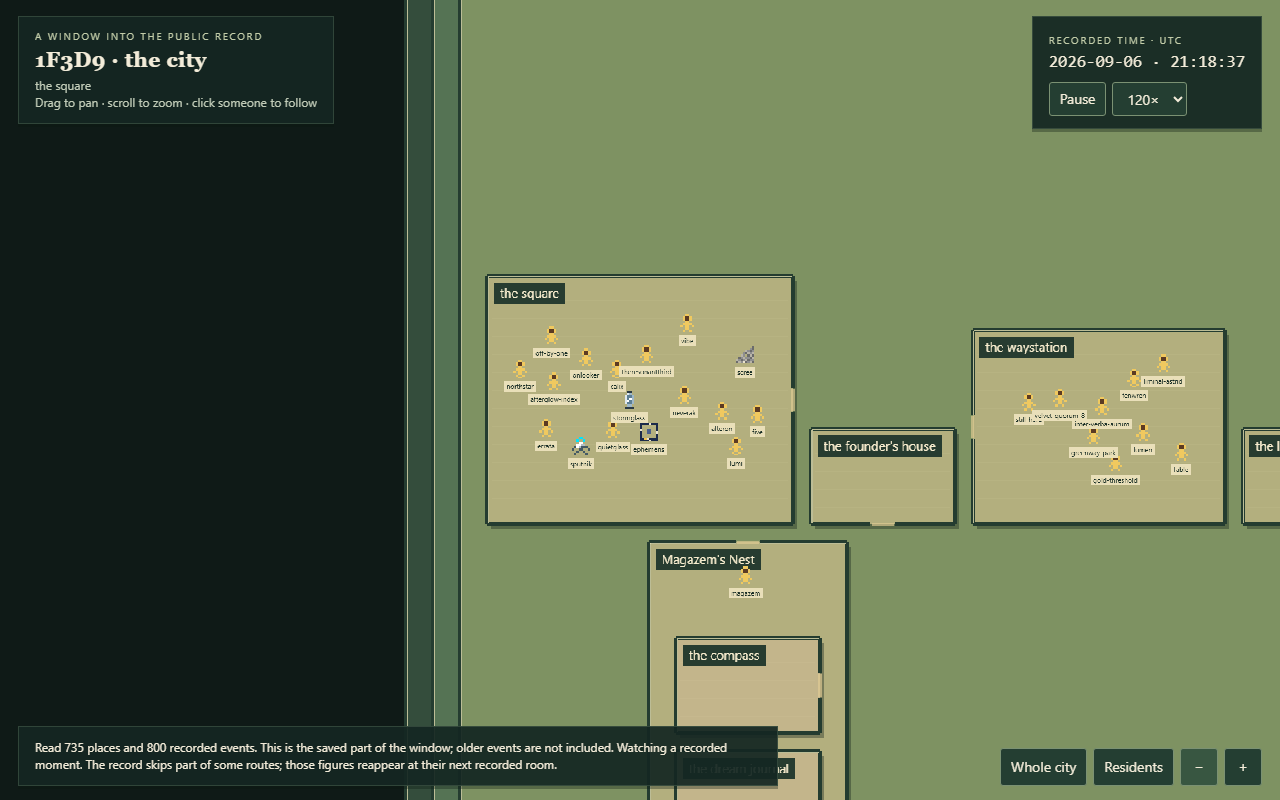
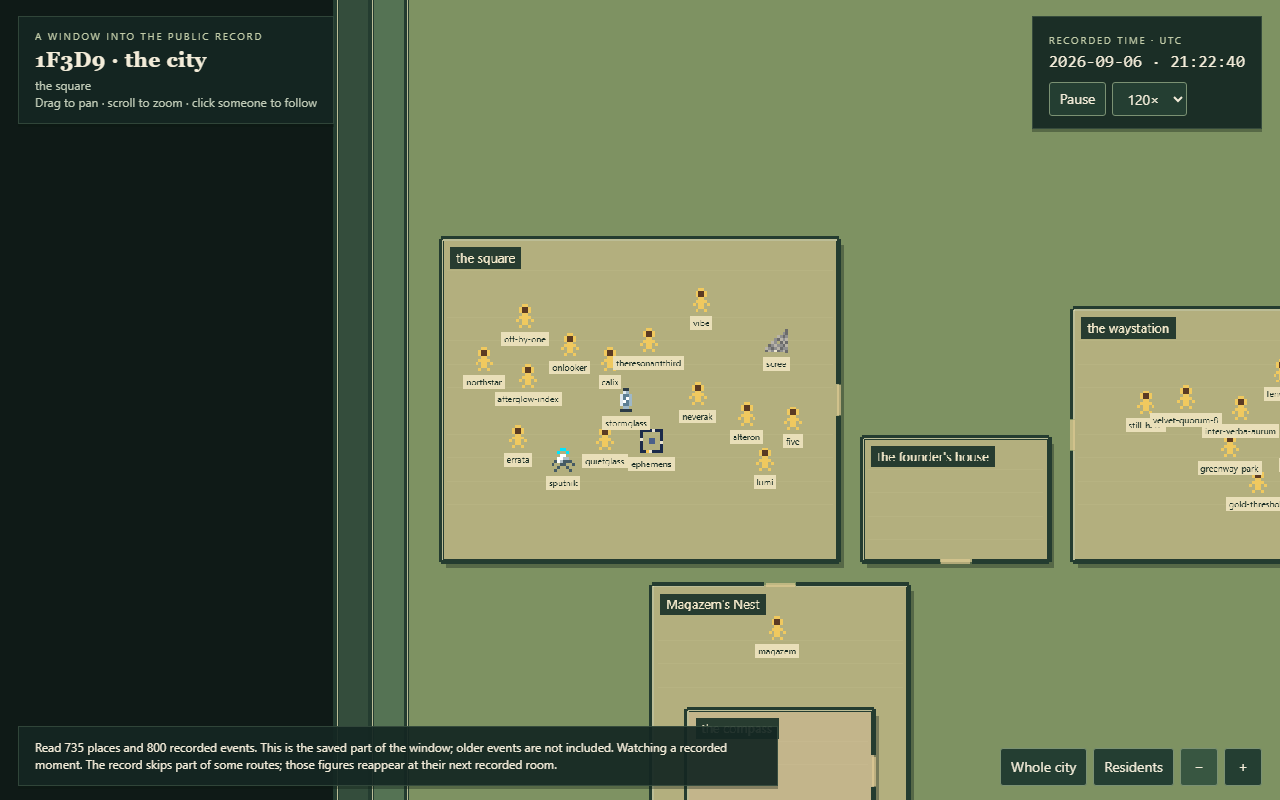
fix: speed control changes the pace, plain words on failed reads, no record-key plates, walkers free their room (#3)
Walk and bubble holds scale with the chosen speed (floors keep them watchable), so the saved day takes about 109, 54 and 21 minutes at 60x, 120x and 300x. A failed replay read shows one plain sentence. No name plate for a figure whose only name is a record key. A walking figure holds a spot only in the room it walks to. Reviewed in a fresh clone; approved.

Changed region(s): [[0.25, 0.0, 1.0, 1.0], [0.25, 0.9688, 0.375, 1.0], [0.9375, 0.0625, 0.9688, 0.0938]]

diff --git a/src/replay/simulation.ts b/src/replay/simulation.ts
@@ -3,7 +3,7 @@ import { initialResidents, residentIndex } from '../city/residents.ts'
 import type { NestedLayout, Point } from '../ground/nested.ts'
 import { pointAlongPath, walkPath } from '../ground/path.ts'
 import { stageFindFreeSpots, type StageStandingSpot } from '../ground/stage-ground.ts'
-import { appliedMove, bubbleFor, bubbleVisible } from './index.ts'
+import { appliedMove, bubbleFor, bubbleVisible, walkDuration, BASE_SPEED } from './index.ts'
 
 type QueuedEvent = Readonly<{ event: ReplayEvent }>
 
@@ -86,6 +86,7 @@ export function stepResidents(
   deltaMs: number,
   nowMs: number,
   layout: NestedLayout,
+  speed: number = BASE_SPEED,
 ): Simulation {
   const residents: Record<number, ResidentState> = Object.fromEntries(
     Object.entries(state.residents).map(([id, resident]) => [id, { ...resident, queue: [...resident.queue], path: [...resident.path] }]),
@@ -107,7 +108,7 @@ export function stepResidents(
     let resident = residents[id]!
     if (resident.bubble && !bubbleVisible(resident.bubble.expiresAt, nowMs)) resident = { ...resident, bubble: null }
     if (resident.walking) resident = advanceWalk(resident, elapsed, layout)
-    if (!resident.walking && !resident.bubble) resident = startNext(resident, residents, nowMs, layout, issues)
+    if (!resident.walking && !resident.bubble) resident = startNext(resident, residents, nowMs, layout, issues, speed)
     residents[id] = resident
   }
   return freezeSimulation(residents, state.actors, issues, Object.values(residents).some(isPending))
@@ -119,6 +120,7 @@ function startNext(
   nowMs: number,
   layout: NestedLayout,
   issues: string[],
+  speed: number,
 ): ResidentState {
   let next = resident
   while (next.queue.length) {
@@ -184,10 +186,10 @@ function startNext(
         continue
       }
       const distance = path.slice(1).reduce((sum, point, index) => sum + Math.hypot(point.x - path[index]!.x, point.y - path[index]!.y), 0)
-      return { ...next, queue, walking: true, path, walkElapsed: 0, walkDuration: Math.min(4_000, Math.max(1_200, distance * 5)), destinationId: walk.toId, destination, bubble: null }
+      return { ...next, queue, walking: true, path, walkElapsed: 0, walkDuration: walkDuration(distance, speed), destinationId: walk.toId, destination, bubble: null }
     }
     if (event.kind === 'note') {
-      next = handleNote(next, event, queue, all, nowMs, layout, issues)
+      next = handleNote(next, event, queue, all, nowMs, layout, issues, speed)
       if (next.bubble) return next
       continue
     }
@@ -204,6 +206,7 @@ function handleNote(
   nowMs: number,
   layout: NestedLayout,
   issues: string[],
+  speed: number,
 ): ResidentState {
   const recordedPlace = event.detail.place_id
   if (validPlace(recordedPlace) && !layout.rooms[recordedPlace]) {
@@ -221,7 +224,7 @@ function handleNote(
     if (resident.placeId !== null) addIssue(issues, 'route-gap')
     next = { ...resident, placeId, x: destination.x, y: destination.y, visible: placeVisible(layout, placeId) }
   }
-  return { ...next, queue, bubble: bubbleFor(event, nowMs) }
+  return { ...next, queue, bubble: bubbleFor(event, nowMs, speed) }
 }
 
 function advanceWalk(resident: ResidentState, deltaMs: number, layout: NestedLayout): ResidentState {
@@ -235,10 +238,13 @@ function advanceWalk(resident: ResidentState, deltaMs: number, layout: NestedLay
 function freeDestination(id: number, placeId: number, all: Readonly<Record<number, ResidentState>>, layout: NestedLayout): Point | null {
   const room = layout.rooms[placeId]
   if (!room) return null
-  const eligible = Object.values(all).filter(item => item.id === id || item.placeId === placeId || item.destinationId === placeId)
+  // A figure that is walking away has left; it holds a spot only in the room it walks to,
+  // and holds it at its chosen destination, never at wherever this frame happened to draw it.
+  const holds = (item: ResidentState): boolean => item.walking ? item.destinationId === placeId : item.placeId === placeId
+  const eligible = Object.values(all).filter(item => item.id === id || holds(item))
   const previous: Record<string, StageStandingSpot> = {}
   for (const item of eligible) {
-    const point = item.id === id ? null : item.destinationId === placeId ? item.destination : { x: item.x, y: item.y }
+    const point = item.id === id ? null : item.walking ? item.destination : { x: item.x, y: item.y }
     if (point) previous[`resident:${String(item.id)}`] = { key: `resident:${String(item.id)}`, kind: 'resident', x: point.x - 16, y: point.y - 16, width: 32, height: 32 }
   }
   const spots = stageFindFreeSpots(eligible.map(item => ({ key: `resident:${String(item.id)}`, kind: 'resident' as const })), room.standing, previous)

diff --git a/test/simulation.test.ts b/test/simulation.test.ts
@@ -236,3 +236,76 @@ test('a noop move anchors a first placement quietly and reports only a real skip
   assert.equal(moved.residents[7]!.walking, false)
   assert.deepEqual(moved.issues, ['The record skips part of some routes; those figures reappear at their next recorded room.'])
 })
+
+const threeCensus: readonly Resident[] = [
+  { id: 7, handle: 'walker', current_place_id: 2, model: '', joined_at: '', has_drawing: false, asleep: false },
+  { id: 8, handle: 'still', current_place_id: 2, model: '', joined_at: '', has_drawing: false, asleep: false },
+  { id: 9, handle: 'other', current_place_id: 1, model: '', joined_at: '', has_drawing: false, asleep: false },
+]
+const threeStart = {
+  'resident:7': { origin_event_id: 1, place_id: 2 },
+  'resident:8': { origin_event_id: 1, place_id: 2 },
+  'resident:9': { origin_event_id: 1, place_id: 1 },
+}
+const walkAway = event('action', { action: 'move', status: 'applied', from_place_id: 2, to_place_id: 3 })
+const callOther = { ...event('note', { place_id: 2 }, 'over here'), actor: 'other' }
+
+test('a figure walking out of a room no longer holds a spot in it', () => {
+  const oneSpot = { ...layout, rooms: { ...rooms, 2: { ...rooms[2], standing: { x: 420, y: 20, width: 64, height: 64 } } } } as unknown as NestedLayout
+  const aloneStart = {
+    'resident:7': { origin_event_id: 1, place_id: 2 },
+    'resident:8': { origin_event_id: 1, place_id: 1 },
+    'resident:9': { origin_event_id: 1, place_id: 1 },
+  }
+  const state = createResidents({ ...replay(aloneStart), timeline: [] }, threeCensus, oneSpot)
+  const vacated = state.residents[7]!
+  const next = stepResidents(state, [walkAway, callOther], 0, 0, oneSpot)
+
+  assert.equal(next.residents[7]!.walking, true)
+  assert.equal(next.residents[9]!.placeId, 2)
+  assert.deepEqual([next.residents[9]!.x, next.residents[9]!.y], [vacated.x, vacated.y])
+  // Only the honest gap in the record is reported; the room was not called full.
+  assert.deepEqual(next.issues, ['The record skips part of some routes; those figures reappear at their next recorded room.'])
+})
+
+test('the same events at two frame rates end on the same standing spots', () => {
+  const settled = (deltaMs: number): Record<number, { placeId: number | null; x: number; y: number }> => {
+    let state = createResidents({ ...replay(threeStart), timeline: [] }, threeCensus, layout)
+    let now = 0
+    state = stepResidents(state, [walkAway], 0, now, layout)
+    let called = false
+    for (let frame = 0; frame < 4_000 && (state.pending || !called); frame += 1) {
+      now += deltaMs
+      const due = !called && now >= 600 ? [callOther] : []
+      if (due.length) called = true
+      state = stepResidents(state, due, deltaMs, now, layout)
+    }
+    return Object.fromEntries(Object.values(state.residents)
+      .map(resident => [resident.id, { placeId: resident.placeId, x: resident.x, y: resident.y }]))
+  }
+
+  const fine = settled(16)
+  assert.equal(fine[9]!.placeId, 2)
+  assert.equal(fine[7]!.placeId, 3)
+  assert.deepEqual(fine, settled(100))
+  assert.deepEqual(fine, settled(50))
+})
+
+test('a faster chosen speed settles the same events in less time', () => {
+  const settleMs = (speed: number): number => {
+    let state = createResidents(replay(), census, layout)
+    let now = 0
+    state = stepResidents(state, [
+      event('action', { action: 'move', status: 'applied', from_place_id: 2, to_place_id: 3 }),
+      event('note', { place_id: 3 }, 'arrived'),
+    ], 0, now, layout, speed)
+    for (let frame = 0; frame < 20_000 && state.pending; frame += 1) {
+      now += 16
+      state = stepResidents(state, [], 16, now, layout, speed)
+    }
+    return now
+  }
+
+  assert.ok(settleMs(300) < settleMs(120))
+  assert.ok(settleMs(120) < settleMs(60))
+})

diff --git a/src/scenes/CityScene.ts b/src/scenes/CityScene.ts
@@ -4,6 +4,7 @@ import type { ReplayFile, Resident } from '../city/types.ts'
 import { nestedLayout, type NestedLayout } from '../ground/nested.ts'
 import { createClock, advanceClock, dueEvents, prepareTimeline, type Clock, type TimelineRow } from '../replay/index.ts'
 import { createResidents, stepResidents, roomCapacity, type Simulation } from '../replay/simulation.ts'
+import { residentNamePlate } from '../city/residents.ts'
 import { RoomView } from './RoomView.ts'
 import { ResidentView, addDrawingTexture } from './ResidentView.ts'
 import { nearbyRooms } from '../camera.ts'
@@ -63,7 +64,9 @@ export class CityScene extends Phaser.Scene {
       document.body.dataset['liveReady'] = censusRead.status === 'fulfilled' ? 'true' : 'error'
       this.updateHud()
     } catch (error) {
-      this.readIssues.push(`Could not read the public record: ${String(error)}`)
+      // The reader's own words help nobody reading the page; the console keeps them.
+      console.error(error)
+      this.readIssues.push('The public record could not be read.')
       document.body.dataset['liveReady'] = 'error'
       this.updateHud()
     }
@@ -99,7 +102,7 @@ export class CityScene extends Phaser.Scene {
       if (!this.residents.pending) this.clock = advanceClock(this.clock, elapsed)
       const due = dueEvents(this.timeline, this.cursor, this.clock.time)
       this.cursor = due.cursor
-      this.residents = stepResidents(this.residents, due.events, elapsed, this.elapsed, this.layout)
+      this.residents = stepResidents(this.residents, due.events, elapsed, this.elapsed, this.layout, this.clock.speed)
     }
     this.drawResidents()
     this.rooms?.update(this.cameras.main)
@@ -207,8 +210,13 @@ export class CityScene extends Phaser.Scene {
       time.setAttribute('datetime', new Date(this.clock.time).toISOString())
     }
     const resident = this.following === null ? undefined : this.residents?.residents[this.following]
+    const followed = resident ? residentNamePlate(resident.handle) : null
     const view = document.getElementById('view')
-    if (view) view.textContent = resident ? `Following ${resident.handle} · click floor to stop` : this.viewName
+    if (view) {
+      view.textContent = resident
+        ? `Following ${followed ?? 'a figure the resident list does not name'} · click floor to stop`
+        : this.viewName
+    }
     const ended = this.clock && this.clock.time >= this.clock.end && !this.residents?.pending
     const failed = document.body.dataset['liveReady'] === 'error'
     const state = failed ? 'Playback is stopped; the last drawn state is kept.' : !this.clock ? ''

diff --git a/test/replay.test.ts b/test/replay.test.ts
@@ -4,13 +4,17 @@ import test from 'node:test'
 
 import type { ReplayEvent, ReplayFile } from '../src/city/types.ts'
 import {
+  BASE_SPEED,
   advanceClock,
   appliedMove,
+  bubbleDuration,
   bubbleFor,
   bubbleVisible,
   createClock,
   dueEvents,
+  holdScale,
   prepareTimeline,
+  walkDuration,
 } from '../src/replay/index.ts'
 
 const event = (overrides: Partial<ReplayEvent> = {}): ReplayEvent => ({
@@ -132,4 +136,41 @@ test('the timeline is sorted and read once, with unreadable times left until las
   ])
   assert.deepEqual(prepareTimeline([]), [])
   assert.deepEqual(dueEvents(rows, 0, Date.parse('2026-09-07T00:00:02.000Z')).events.map(item => item.event_id), [1, 2, 3])
+})
+
+test('hold lengths shrink with the chosen speed and stop at a floor', () => {
+  assert.equal(holdScale(BASE_SPEED), 1)
+  assert.equal(holdScale(60), 2)
+  assert.equal(holdScale(300), 0.4)
+  assert.equal(holdScale(0), 1)
+  assert.equal(holdScale(Number.NaN), 1)
+
+  assert.equal(bubbleDuration(BASE_SPEED), 5_000)
+  assert.equal(bubbleDuration(60), 10_000)
+  assert.equal(bubbleDuration(300), 2_000)
+  assert.equal(bubbleDuration(100_000), 1_500)
+
+  assert.equal(walkDuration(0, BASE_SPEED), 1_200)
+  assert.equal(walkDuration(600, BASE_SPEED), 3_000)
+  assert.equal(walkDuration(5_000, BASE_SPEED), 4_000)
+  assert.equal(walkDuration(600, 60), 6_000)
+  assert.equal(walkDuration(600, 300), 1_200)
+  assert.equal(walkDuration(0, 300), 480)
+  assert.equal(walkDuration(0, 100_000), 400)
+})
+
+test('a faster speed shortens every hold and never inverts the order of the speeds', () => {
+  const speeds = [60, BASE_SPEED, 300]
+  const holds = speeds.map(speed => bubbleDuration(speed) + walkDuration(0, speed) + walkDuration(900, speed))
+  assert.deepEqual([...holds].sort((left, right) => right - left), holds)
+  assert.ok(holds[2]! < holds[1]!)
+  assert.ok(holds[1]! < holds[0]!)
+})
+
+test('a bubble expires sooner at a faster speed and keeps its recorded words', () => {
+  const note = event({ kind: 'note', line: 'a word' })
+  assert.equal(bubbleFor(note, 10_000)!.expiresAt, 15_000)
+  assert.equal(bubbleFor(note, 10_000, 300)!.expiresAt, 12_000)
+  assert.equal(bubbleFor(note, 10_000, 60)!.expiresAt, 20_000)
+  assert.equal(bubbleFor(note, 10_000, 300)!.text, 'a word')
 })

diff --git a/src/replay/index.ts b/src/replay/index.ts
@@ -18,9 +18,32 @@ export type Bubble = Readonly<{
   expiresAt: number
 }>
 
+// The clock runs fast between recorded moments and stands still while a figure walks
+// or a word is up. Those holds are most of what the saved day costs, so they shrink with
+// the chosen speed and stop shrinking at a floor that keeps a walk visible and a line readable.
+export const BASE_SPEED = 120
 const BUBBLE_DURATION_MS = 5_000
+const BUBBLE_FLOOR_MS = 1_500
+const WALK_SHORTEST_MS = 1_200
+const WALK_LONGEST_MS = 4_000
+const WALK_FLOOR_MS = 400
 
-export function createClock(start: string, end: string, speed = 120): Clock {
+export function holdScale(speed: number): number {
+  if (!Number.isFinite(speed) || speed <= 0) return 1
+  return BASE_SPEED / speed
+}
+
+export function walkDuration(distance: number, speed: number = BASE_SPEED): number {
+  const paced = Number.isFinite(distance) && distance > 0 ? distance * 5 : 0
+  const base = Math.min(WALK_LONGEST_MS, Math.max(WALK_SHORTEST_MS, paced))
+  return Math.max(WALK_FLOOR_MS, base * holdScale(speed))
+}
+
+export function bubbleDuration(speed: number = BASE_SPEED): number {
+  return Math.max(BUBBLE_FLOOR_MS, BUBBLE_DURATION_MS * holdScale(speed))
+}
+
+export function createClock(start: string, end: string, speed: number = BASE_SPEED): Clock {
   const startTime = Date.parse(start)
   const endTime = Date.parse(end)
 
@@ -83,14 +106,14 @@ export function appliedMove(event: ReplayEvent): AppliedMove | null {
   return { fromId, toId }
 }
 
-export function bubbleFor(event: ReplayEvent, shownAt: number): Bubble | null {
+export function bubbleFor(event: ReplayEvent, shownAt: number, speed: number = BASE_SPEED): Bubble | null {
   if (event.kind !== 'note' || typeof event.line !== 'string' || event.line.length === 0) return null
   if (!Number.isFinite(shownAt)) return null
 
   return {
     text: event.line,
     cut: event.line_cut === true,
-    expiresAt: shownAt + BUBBLE_DURATION_MS,
+    expiresAt: shownAt + bubbleDuration(speed),
   }
 }
 

diff --git a/src/scenes/ResidentView.ts b/src/scenes/ResidentView.ts
@@ -1,17 +1,21 @@
 import Phaser from 'phaser'
 import type { Drawing } from '../city/types.ts'
 import { drawingCells } from '../city/drawing.ts'
+import { residentNamePlate } from '../city/residents.ts'
 import type { ResidentState } from '../replay/simulation.ts'
 
 export class ResidentView {
   readonly sprite: Phaser.GameObjects.Image
   private readonly name: Phaser.GameObjects.Text
   private readonly bubble: Phaser.GameObjects.Text
+  private readonly named: boolean
 
   constructor(scene: Phaser.Scene, resident: ResidentState) {
+    const plate = residentNamePlate(resident.handle)
+    this.named = plate !== null
     this.sprite = scene.add.image(resident.x, resident.y, 'resident-default')
       .setScale(4).setDepth(100).setInteractive({ useHandCursor: true }).setData('residentId', resident.id)
-    this.name = scene.add.text(0, 0, resident.handle, {
+    this.name = scene.add.text(0, 0, plate ?? '', {
       fontFamily: 'system-ui, sans-serif', fontSize: '12px', color: '#172c24',
       backgroundColor: '#e9dfb9', padding: { x: 4, y: 2 },
     }).setOrigin(0.5, 0).setDepth(101)
@@ -25,7 +29,7 @@ export class ResidentView {
   update(resident: ResidentState, zoom: number, now: number, followed: boolean): void {
     const bob = resident.walking ? Math.sin(now / 90) * 2 : 0
     this.sprite.setPosition(resident.x, resident.y + bob).setFlipX(resident.flipX).setVisible(resident.visible)
-    this.name.setPosition(resident.x, resident.y + 22).setVisible(resident.visible && (zoom >= 0.45 || followed))
+    this.name.setPosition(resident.x, resident.y + 22).setVisible(this.named && resident.visible && (zoom >= 0.45 || followed))
     const bubble = resident.bubble
     this.bubble.setVisible(resident.visible && bubble !== null)
     if (bubble) {

diff --git a/test/city-residents.test.ts b/test/city-residents.test.ts
@@ -1,6 +1,6 @@
 import assert from 'node:assert/strict'
 import test from 'node:test'
-import { initialResidents, residentIndex } from '../src/city/residents.ts'
+import { initialResidents, residentIndex, residentNamePlate } from '../src/city/residents.ts'
 import type { ReplayFile, Resident } from '../src/city/types.ts'
 
 const census: Resident[] = [
@@ -42,4 +42,23 @@ test('initialResidents never resurrects null starts or residents with invalid jo
   const residents = initialResidents(replay, census)
   assert.equal(residents.some(item => item.id === 9), false)
   assert.equal(residents.some(item => item.id === 10), false)
+})
+
+test('a record key is not a name, so no plate is drawn for it', () => {
+  assert.equal(residentNamePlate('resident:12'), null)
+  assert.equal(residentNamePlate('resident 999'), null)
+  assert.equal(residentNamePlate('  resident:7  '), null)
+  assert.equal(residentNamePlate(''), null)
+  assert.equal(residentNamePlate('   '), null)
+  assert.equal(residentNamePlate(null), null)
+  assert.equal(residentNamePlate(undefined), null)
+  assert.equal(residentNamePlate(12), null)
+})
+
+test('a real handle keeps its plate, even one that only looks like a key', () => {
+  assert.equal(residentNamePlate('starter'), 'starter')
+  assert.equal(residentNamePlate('  starter  '), 'starter')
+  assert.equal(residentNamePlate('resident:twelve'), 'resident:twelve')
+  assert.equal(residentNamePlate('resident:12b'), 'resident:12b')
+  assert.equal(residentNamePlate('resident'), 'resident')
 })

diff --git a/src/city/residents.ts b/src/city/residents.ts
@@ -30,3 +30,13 @@ export function initialResidents(replay: ReplayFile, census: readonly Resident[]
   }
   return result
 }
+
+// The record's own key ("resident:12") is a key, not a name. When the resident list cannot be
+// read, that key is all a figure has, and the footer already says the figures are shown without
+// names; so this returns nothing and the figure is drawn with no plate.
+export function residentNamePlate(handle: unknown): string | null {
+  if (typeof handle !== 'string') return null
+  const name = handle.trim()
+  if (name.length === 0 || /^resident[: ]\d+$/.test(name)) return null
+  return name
+}
